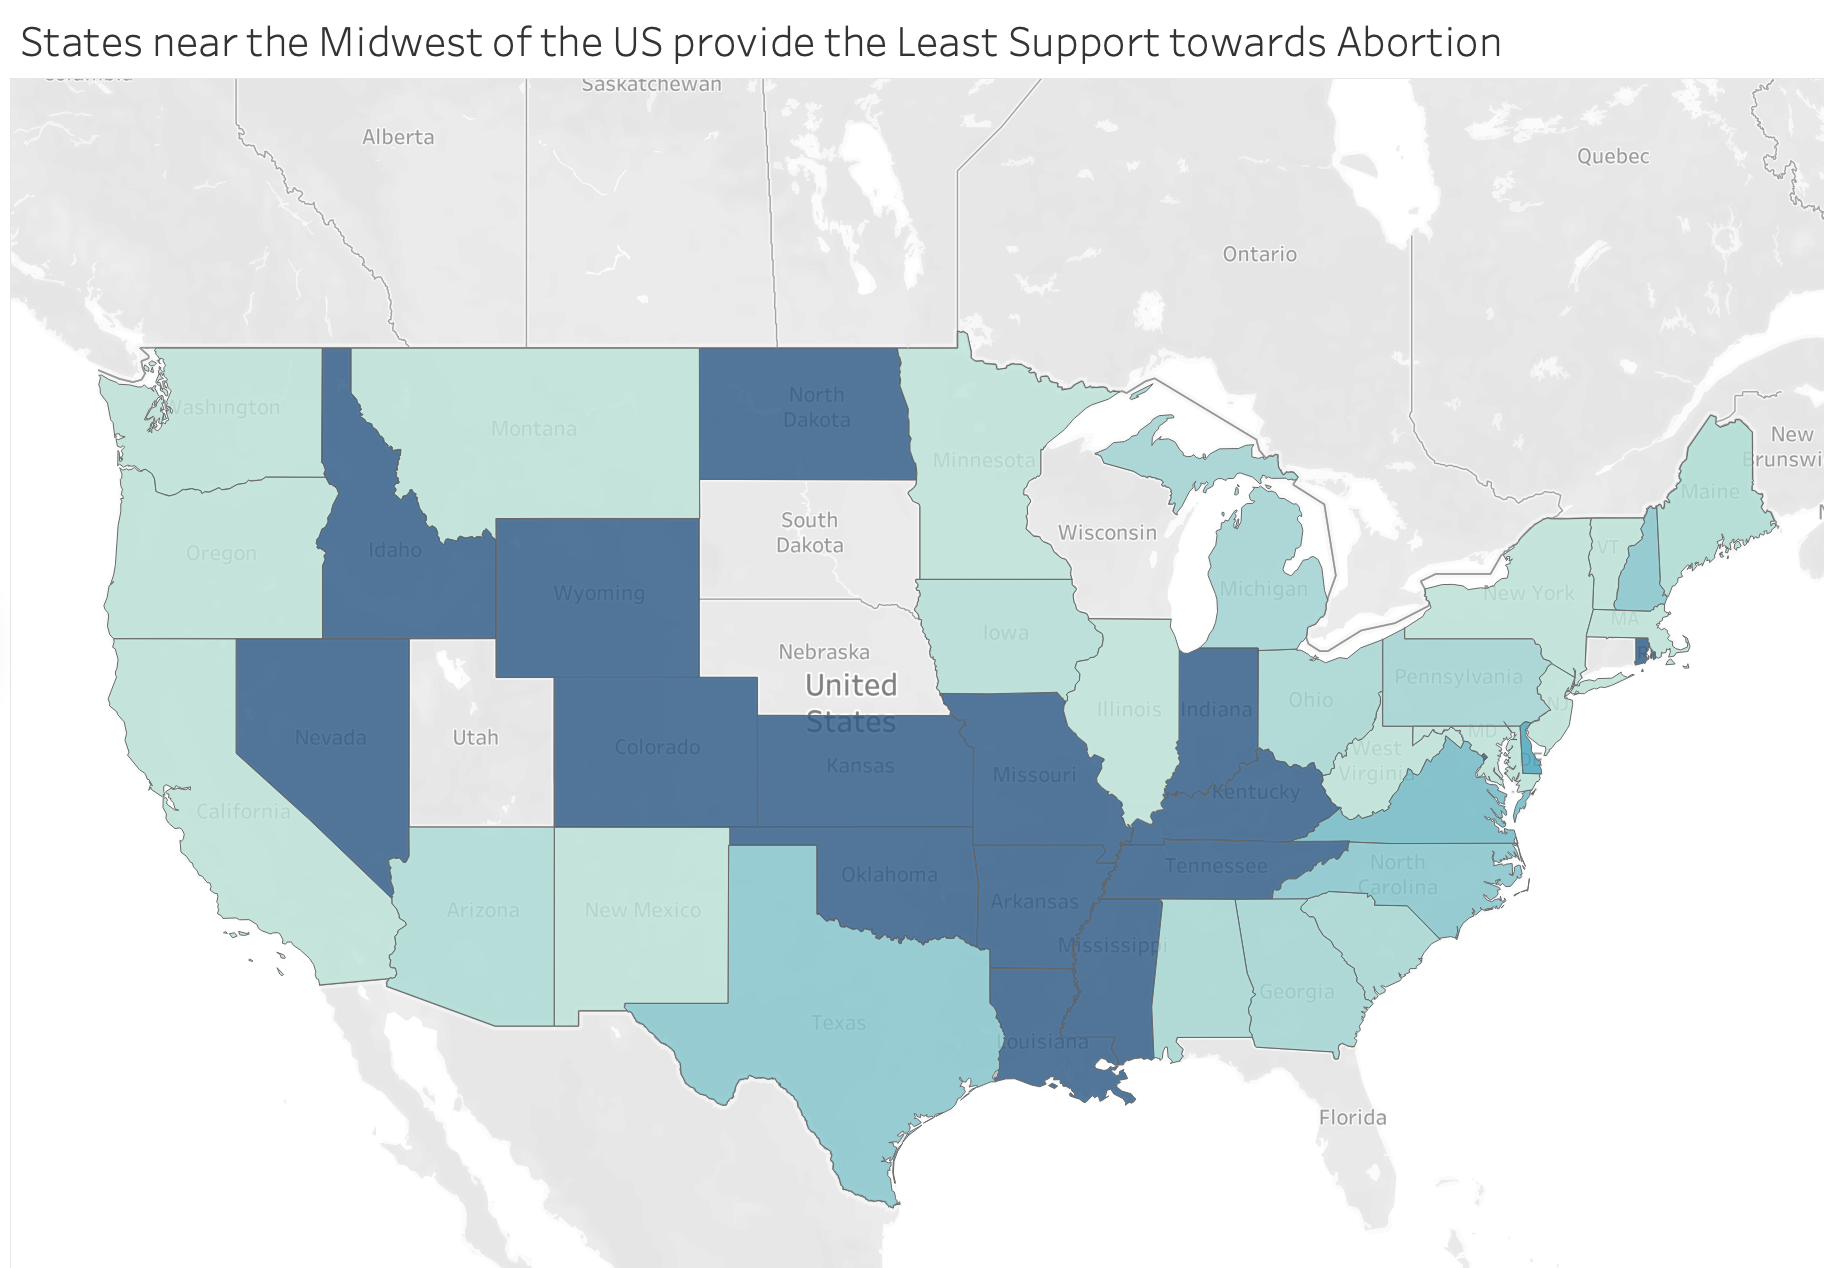
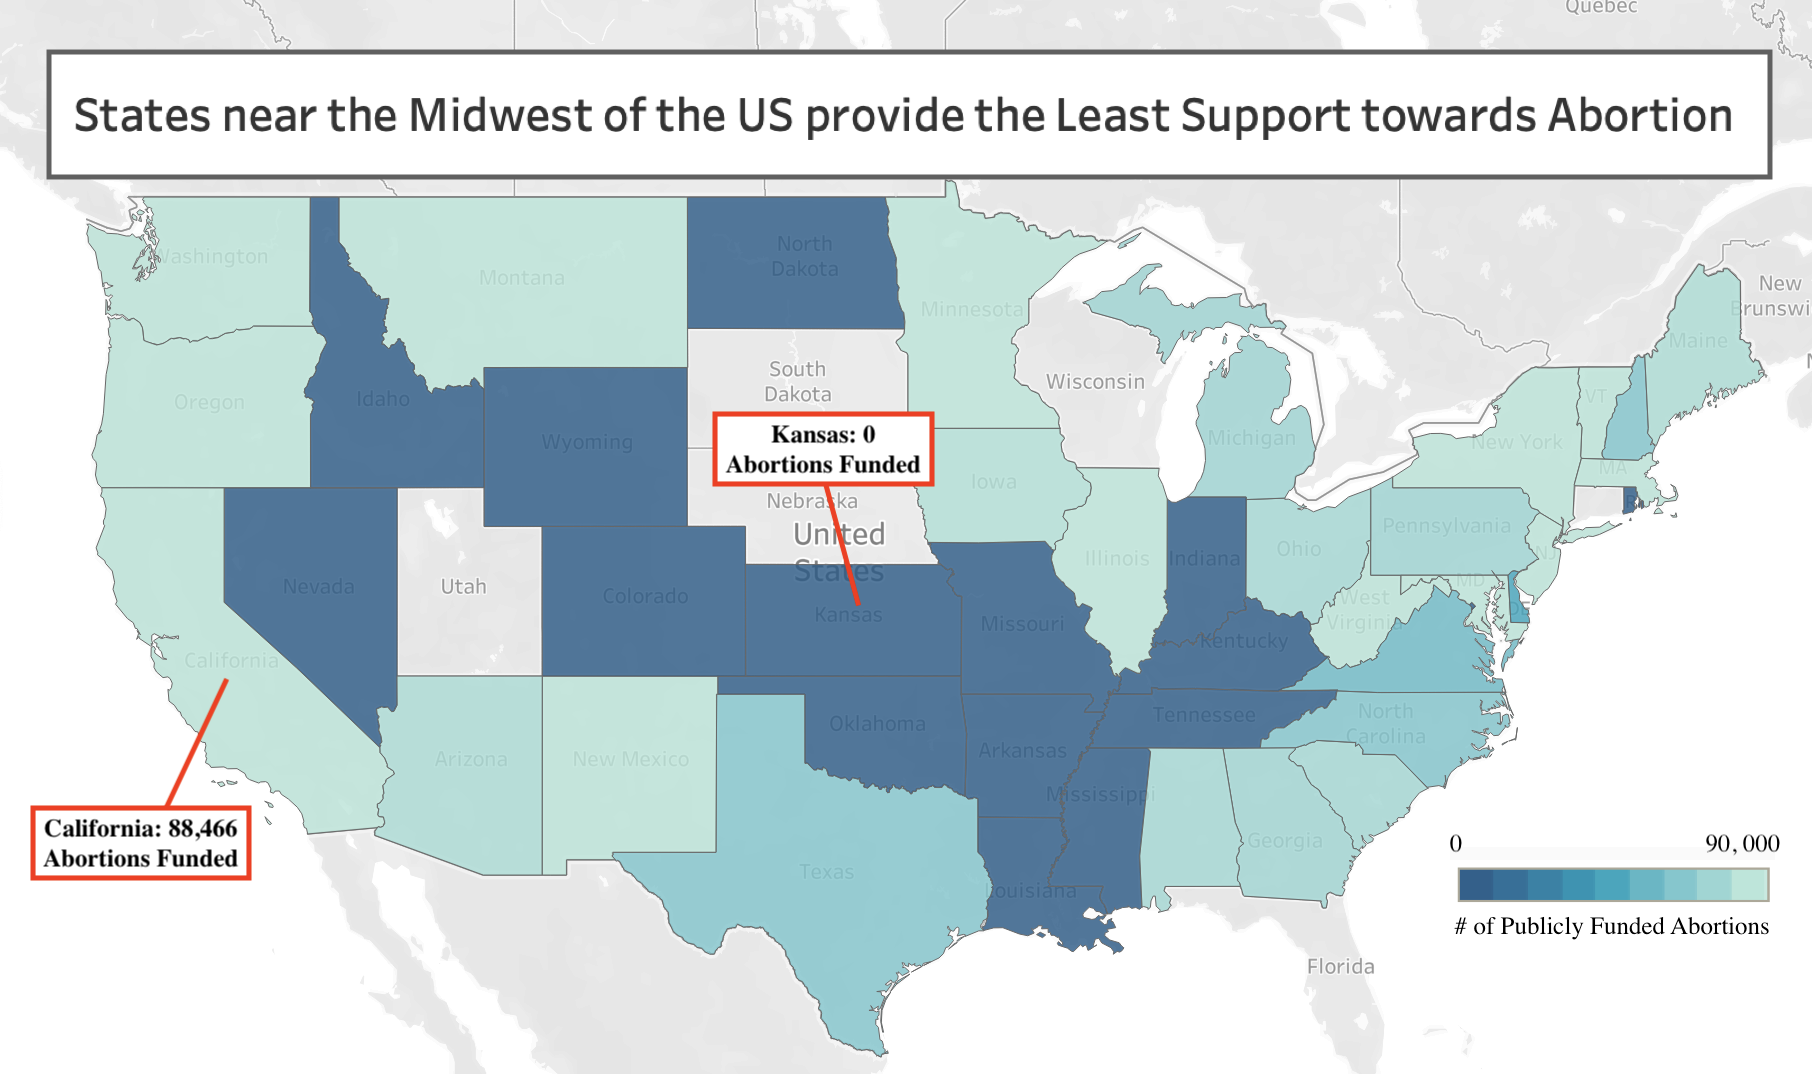
Add files via upload

diff --git a/index.html b/index.html
@@ -24,9 +24,13 @@
       <h3>FOR the Proposition</h3>
 
       <figure>
-				<img src="IMAGE_FILENAME" alt="" style="max-width: 100%; height: auto;" />
+				<img src="for.png" alt="" style="max-width: 100%; height: auto;" />
 				<figcaption>
-					BRIEF CAPTION HERE.
+					Source: Abortion Data by U.S. State from the Guttmacher Institute. The Guttmacher Institute is a research and policy organization committed to advancing sexual and reproductive health and rights. They maintain a variety of global data related to global reproductive rights. This data set contains data about abortion rates, abortion providers, and abortion seekers, aggregated to the state level.
+				
+					<br>
+
+					Kansas leads the nation in abortions for out of state residents. This chart captures the ratio of abortions by the state of occurence divided by the abortions by state of residence. This means that if the number of abortions for state of occurence is greater than that for the state of residence, this state is conducting a larger number of abortions for out of state residents. 
 				</figcaption>
 			</figure>
 
@@ -47,7 +51,12 @@
       <figure>
 				<img src="against.png" alt="" style="max-width: 100%; height: auto;" />
 				<figcaption>
-          BRIEF CAPTION HERE.
+					Source: Abortion Data by U.S. State from the Guttmacher Institute. The Guttmacher Institute is a research and policy organization committed to advancing sexual and reproductive health and rights. They maintain a variety of global data related to global reproductive rights. This data set contains data about abortion rates, abortion providers, and abortion seekers, aggregated to the state level.
+					
+					<br>
+
+					States near the midwest of the US provide the least support towards abortion. This chart captures the number of publicly funded abortions in 2010. We plot the values on an inverse scale to highlight the states which provide the least support. 
+
 				</figcaption>
 			</figure>
 
